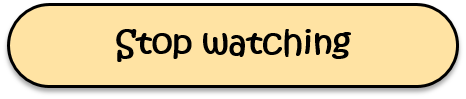
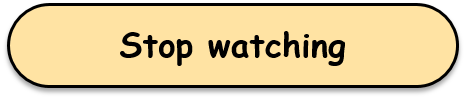
AR adjusting

Changed region(s): [[0.2403, 0.2727, 0.7511, 0.6667]]

diff --git a/web/three.js/css/default.css b/web/three.js/css/default.css
@@ -387,7 +387,7 @@ button:focus {outline:0;}
    border-radius: none;
    margin-left: 1px;
    margin-right: 1px;
-   font-family: kristen ITC, Helvetica, sans-serif;
+   font-family: Comic Sans MS, Helvetica, sans-serif;
    font-size:30px;
    display: inline-block;
 }
